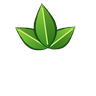
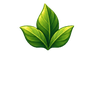
Paint jungle leaves and festive board decorations

Changed region(s): [[0.1562, 0.0312, 0.8125, 0.5312]]

diff --git a/tools/board_frame_decor.py b/tools/board_frame_decor.py
@@ -1,0 +1,64 @@
+#!/usr/bin/env python3
+"""Register separately paintable board decorations from the source atlas."""
+import argparse
+import json
+import math
+from pathlib import Path
+
+from PIL import Image, ImageChops, ImageFilter
+
+ROOT = Path(__file__).resolve().parents[1]
+SPEC = ROOT / "engine/art/board-frame/decorations.json"
+
+
+def register(source, spec, size):
+    crop = spec["crop"]
+    image = source.crop(crop)
+    alpha = image.getchannel("A")
+    # Clear the faint background matte outside the painting. The six-pixel
+    # allowance preserves the sprite's own semitransparent edge pixels.
+    painted = alpha.point(lambda value: 255 if value >= 64 else 0)
+    image.putalpha(ImageChops.multiply(alpha, painted.filter(ImageFilter.MaxFilter(13))))
+    x, y = (anchor - margin for anchor, margin in zip(spec["anchor"], crop[:2]))
+    supersample = 3
+    canvas = size * supersample
+    centre = canvas / 2
+    angle = math.radians(spec["turn"])
+    scale = spec["scale"] * supersample
+    a, b = math.cos(angle) / scale, math.sin(angle) / scale
+    # Inverse transform. The authored stem or edge contact point sits at the
+    # centre of the runtime canvas. RGB and authored alpha travel together.
+    mapped = image.transform((canvas, canvas), Image.Transform.AFFINE,
+                             (a, b, x - centre * (a + b), -b, a, y - centre * (a - b)),
+                             Image.Resampling.BICUBIC)
+    return mapped.resize((size, size), Image.Resampling.LANCZOS)
+
+
+def main():
+    spec = json.loads(SPEC.read_text())
+    parser = argparse.ArgumentParser(description=__doc__)
+    parser.add_argument("--game", choices=tuple(spec["games"]))
+    parser.add_argument("--check", action="store_true")
+    args = parser.parse_args()
+    assert (ROOT / spec["prompt"]).is_file()
+    games = (args.game,) if args.game else spec["games"]
+    with Image.open(ROOT / spec["source"]) as source:
+        assert source.mode == "RGBA"
+        for game in games:
+            for key, sprite in spec["games"][game].items():
+                registered = register(source, sprite, spec["size"])
+                alpha = registered.getchannel("A")
+                bounds = alpha.point(lambda a: 255 if a >= 64 else 0).getbbox()
+                size = spec["size"]
+                assert bounds and min(*bounds[:2], size - bounds[2], size - bounds[3]) >= 2, key
+                path = ROOT / "games" / game / "data/board-frame" / f"{key}.png"
+                if args.check:
+                    with Image.open(path) as current:
+                        assert current.mode == "RGBA" and current.size == registered.size, path
+                        assert current.tobytes() == registered.tobytes(), f"Stale decoration: {path}"
+                else:
+                    registered.save(path, optimize=True)
+
+
+if __name__ == "__main__":
+    main()

diff --git a/games/christmas-market/tools/check_assets.py b/games/christmas-market/tools/check_assets.py
@@ -57,12 +57,15 @@ def main():
     subprocess.run([sys.executable, str(ROOT.parents[1]/tiles['generator']), '--check'], check=True)
     frame = manifest['board_frame']
     art = (ROOT/'lua/art.lua').read_text()
-    assert (ROOT.parents[1]/frame['review']).is_file()
-    for role in ('stone', 'leaves'):
-        assert frame[role] in inventory and '"' + frame[role].removeprefix('data/') + '"' in art
-    assert png(ROOT/frame['leaves']) == ((96, 96), 6)
+    for review in ('review', 'decoration_review'):
+        assert (ROOT.parents[1]/frame[review]).is_file()
+    decor = json.loads((ROOT.parents[1]/frame['decorations']).read_text())
+    for path in [frame['stone'], *(f'data/board-frame/{name}.png' for name in decor['games'][ROOT.name])]:
+        assert path in inventory and '"' + path.removeprefix('data/') + '"' in art
     subprocess.run([sys.executable, str(ROOT.parents[1]/frame['generator']),
                     '--check', str(ROOT/frame['stone'])], check=True)
+    subprocess.run([sys.executable, str(ROOT.parents[1]/frame['registration']),
+                    '--check', '--game', ROOT.name], check=True)
     subprocess.run([sys.executable, str(ROOT/'tools/prepare_story_pieces.py'), '--check'], check=True)
     nav = json.loads((ROOT/'art/navigation/manifest.json').read_text())
     assert set(nav['icons']) == {f'{kind}-{state}' for kind in ('build','play','levels') for state in STATES}

diff --git a/games/relic-rush/tools/check_art_catalogue.py b/games/relic-rush/tools/check_art_catalogue.py
@@ -153,13 +153,15 @@ for name in spec["tiles"]:
     assert f"data/board-tiles/{name}.png" in actual and f"`tile-{name}`" in doc, name
 subprocess.run([sys.executable, str(ROOT.parents[1] / tiles["generator"]), "--check"], check=True)
 frame = manifest["board_frame"]
-assert (ROOT.parents[1] / frame["review"]).is_file()
-for role in ("stone", "leaves"):
-    assert frame[role] in actual and '"' + frame[role].removeprefix("data/") + '"' in art
-with Image.open(ROOT / frame["leaves"]) as leaves:
-    assert leaves.mode == "RGBA" and leaves.size == (96, 96) and leaves.getchannel("A").getbbox()
+for review in ("review", "decoration_review"):
+    assert (ROOT.parents[1] / frame[review]).is_file()
+decor = json.loads((ROOT.parents[1] / frame["decorations"]).read_text())
+for path in [frame["stone"], *(f"data/board-frame/{name}.png" for name in decor["games"][ROOT.name])]:
+    assert path in actual and '"' + path.removeprefix("data/") + '"' in art
 subprocess.run([sys.executable, str(ROOT.parents[1] / frame["generator"]),
                 "--check", str(ROOT / frame["stone"])], check=True)
+subprocess.run([sys.executable, str(ROOT.parents[1] / frame["registration"]),
+                "--check", "--game", ROOT.name], check=True)
 finale = manifest["finale"]
 for name, item in finale["assets"].items():
     assert f'`{name}`' in doc and f'"{name}"' in art

diff --git a/docs/review/board-frame-decorations/README.md b/docs/review/board-frame-decorations/README.md
@@ -1,0 +1,40 @@
+# Painted board decorations
+
+Relic Rush level 6 has the repainted three-leaf sprig. Christmas Market
+level 4 has snow along the exposed top rim, with a fir sprig tied with a red
+ribbon and bell at the left shoulder and a fir sprig with a pinecone and
+berries at the right. The stone atlas stays visible beneath the trim.
+
+| Board | Before | Painted decorations |
+| --- | --- | --- |
+| Relic Rush, 480×900 | ![Original Relic Rush leaves](../board-frame-atlas/relic-480-after.jpg) | ![Painted Relic Rush leaves](relic-480.jpg) |
+| Relic Rush, 390×844 | ![Original Relic Rush phone leaves](../board-frame-atlas/relic-390-after.jpg) | ![Painted Relic Rush phone leaves](relic-390.jpg) |
+| Christmas Market, 480×900 | ![Original Christmas Market leaves](../board-frame-atlas/christmas-480-after.jpg) | ![Christmas Market snow and festive trim](christmas-480.jpg) |
+| Christmas Market, 390×844 | ![Original Christmas Market phone leaves](../board-frame-atlas/christmas-390-after.jpg) | ![Christmas Market phone snow and festive trim](christmas-390.jpg) |
+
+## Source and registration
+
+The six sprites were painted together with the built-in ImageGen tool. The
+inputs were the previous Relic Rush sprig from commit `f929f04c`, the local
+Cradle of Rome reference `reference/cradle-of-rome/resources/textures/scenes/game/g_corners.png`,
+and the [Christmas Market board](../board-frame-atlas/christmas-480-after.jpg).
+[Source atlas](../../../engine/art/board-frame/decorations-source.png) ·
+[Prompt](../../../engine/art/board-frame/decorations.prompt.txt) ·
+[Crop and anchor settings](../../../engine/art/board-frame/decorations.json)
+
+Each game loads separate 96×96 RGBA PNGs from `data/board-frame/`. The centre of
+each sprite is its contact point at the stone. Registration crops and uniformly
+scales each painting. It clears faint background alpha more than six source
+pixels from the painted shape and carries the painted edge alpha into the
+result. The sloped snow pieces also rotate by the few degrees needed for
+the ±60° stone edges.
+
+Paint the corresponding slot in the source atlas, then export the individual
+PNGs. The stone [atlas generator](../board-frame-atlas/README.md) is independent.
+
+```sh
+python3 tools/board_frame_decor.py
+python3 tools/board_frame_decor.py --check
+build/test/all --suite=relic-rush --suite=christmas-market \
+  "shot dressing-shore" "shot main-character-board" "shot phone-board"
+```

diff --git a/docs/MATCH3_ENGINE.md b/docs/MATCH3_ENGINE.md
@@ -157,16 +157,20 @@ default) at its radius. The seam shows the backing colour through that inset.
 (`E.CRADLE_GROUND`) for the frame, soft drop shadow, dark brown grout
 (`seam`, `seam_width`) and cell-state tiles. Games supply the fallback face
 colour as the skin's `board_face`.
-`elements.load_frame` loads each game's stone atlas and leaf sprite.
+`elements.load_frame` loads each game's stone atlas and separate decorations.
 The renderer checks each active cell's six neighbours and places atlas
 regions along the exposed edges, inward corners and outward corners,
 including the edges of holes. It keeps those placements relative to the board
 origin for shake and resize, and rebuilds them when the active mask changes.
 The atlas also provides the rim under each cell during the entrance.
-The soft shadow follows the settled outline, and the separate leaves sit on
-the board's north-west, north-east and south-east outward tips.
+The soft shadow follows the settled outline. The skin can place separate sprites
+on the north-west, north-east and south-east outward tips. Three optional
+directional caps follow the highest exposed edge at each horizontal position.
+Relic Rush uses the corner placements for leaves. Christmas Market uses the
+two upper corners for festive trim and the caps for snow.
 Imported and neutral boards use the default ground geometry.
 [Frame generator, paint guide and in-game review](review/board-frame-atlas/README.md).
+[Decoration source and in-game review](review/board-frame-decorations/README.md).
 Floor tiles are ordinary hex sprites. `tools/board_tiles.py` bakes the eight
 shared Cradle of Rome slots from `engine/art/board-tiles/tiles.json` into each
 listed game's `data/board-tiles/`: a bevel lit from above, a top-to-bottom face

diff --git a/games/christmas-market/docs/asset-catalogue.md b/games/christmas-market/docs/asset-catalogue.md
@@ -359,10 +359,15 @@ Regenerate the eight tiles with `python3 tools/board_tiles.py`;
 and the two openings in the level 4 board. Its six straight runs, six outward
 joins, six inward joins and `frame-entrance` rim use the previous bands,
 seeded grain and cracks from `python3 tools/board_frame.py --output build/board-frame`.
-`frame-leaves` (`data/board-frame/leaves.png`) keeps the original sprig as a
-separate paintable sprite. Its centred root snaps to three outward tips, and the
-renderer turns it towards the outside.
-[Paint guide and level 4 at both phone sizes](../../../docs/review/board-frame-atlas/README.md).
+
+The settled board has five separate paintable sprites under `data/board-frame/`.
+`snow-rise`, `snow-flat` and `snow-fall` sit on the highest exposed edges,
+with a painted pose for each slope. `fir-ribbon` ties the left shoulder with
+snowy needles, a ribbon and a bell. `fir-pinecone` puts a frosted cone and
+berries on the right shoulder. Rebuild the separate sprites from the shared
+[ImageGen source](../../../engine/art/board-frame/decorations-source.png) with
+`python3 tools/board_frame_decor.py --game christmas-market`.
+[Paint guide, prompt and level 4 at both phone sizes](../../../docs/review/board-frame-decorations/README.md).
 
 The shared renderer gives each face a 0.18-unit inset over a dark spruce
 backing that supplies the hairline seams. The guide reuses the tablet

diff --git a/games/relic-rush/docs/asset-catalogue.md b/games/relic-rush/docs/asset-catalogue.md
@@ -418,10 +418,12 @@ with six straight runs, six outward joins and six inward joins. Its
 `frame-entrance` region follows the incoming cells. The starter bakes the
 previous frame's bands, seeded grain and cracks with
 `python3 tools/board_frame.py --output build/board-frame`.
-`frame-leaves` (`data/board-frame/leaves.png`) is the original generated sprig
-saved as a separate paintable sprite. Its centred root snaps to three
-outward tips, and the renderer turns the sprite towards the outside.
-[Paint guide and level 6 at both phone sizes](../../../docs/review/board-frame-atlas/README.md).
+`data/board-frame/leaves.png` is a hand-painted-style three-leaf jungle sprig
+from the shared [ImageGen source](../../../engine/art/board-frame/decorations-source.png).
+Its centred stem anchors to three outward tips on the settled board. The
+renderer turns it towards the outside and varies its size by corner. Rebuild
+its separate sprite with `python3 tools/board_frame_decor.py --game relic-rush`.
+[Paint guide, prompt and level 6 at both phone sizes](../../../docs/review/board-frame-decorations/README.md).
 
 The painted [limestone and cobalt atlas](../art/board-refresh/flat-ground.png)
 these replaced remains as a style reference. [In-game review](../../../docs/review/board-tiles/README.md).

diff --git a/docs/review/board-frame-atlas/README.md b/docs/review/board-frame-atlas/README.md
@@ -34,10 +34,9 @@ matching paint across the join lines. The engine overlaps those joins by a
 small amount to keep the stone continuous at both phone sizes. The 168×168 px
 rim in the bottom left follows each cell's scale and rotation as it flies in.
 
-Each game's `data/board-frame/leaves.png` is a separate paintable 96×96 RGBA
-sprite. Its stem starts at the centre and points up. The renderer places it
-on three exposed corner tips and turns it outward. Both games currently use
-their original sprig. The frame generator writes the stone atlas and guide.
+The frame generator writes the stone atlas and guide. The
+[decoration source and review](../board-frame-decorations/README.md) show
+the separate paintable leaves, snow and festive trim loaded over the stone.
 
 ## Reproduce the captures
 
